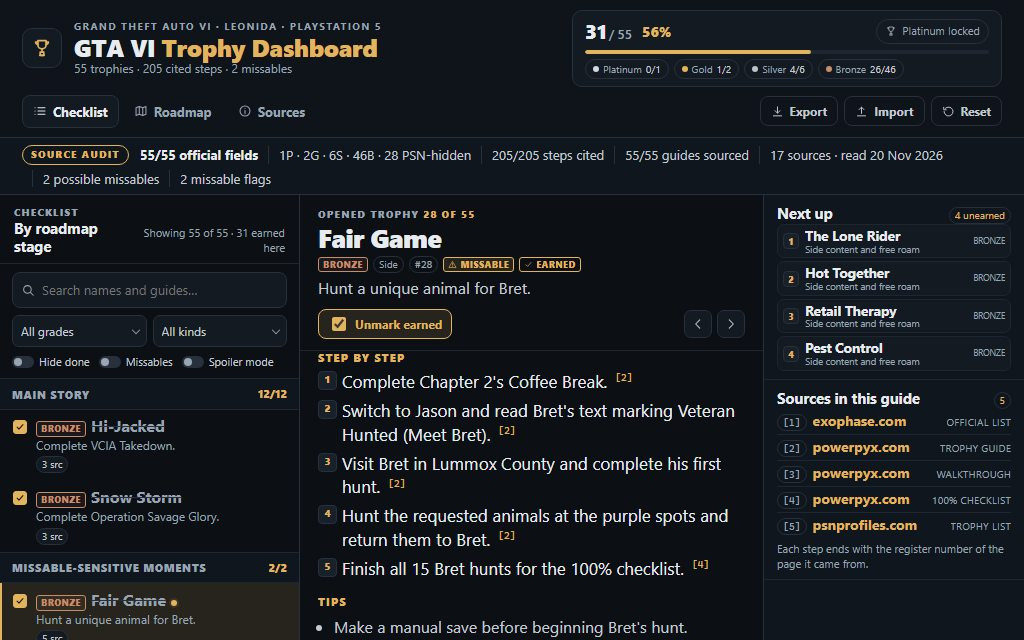
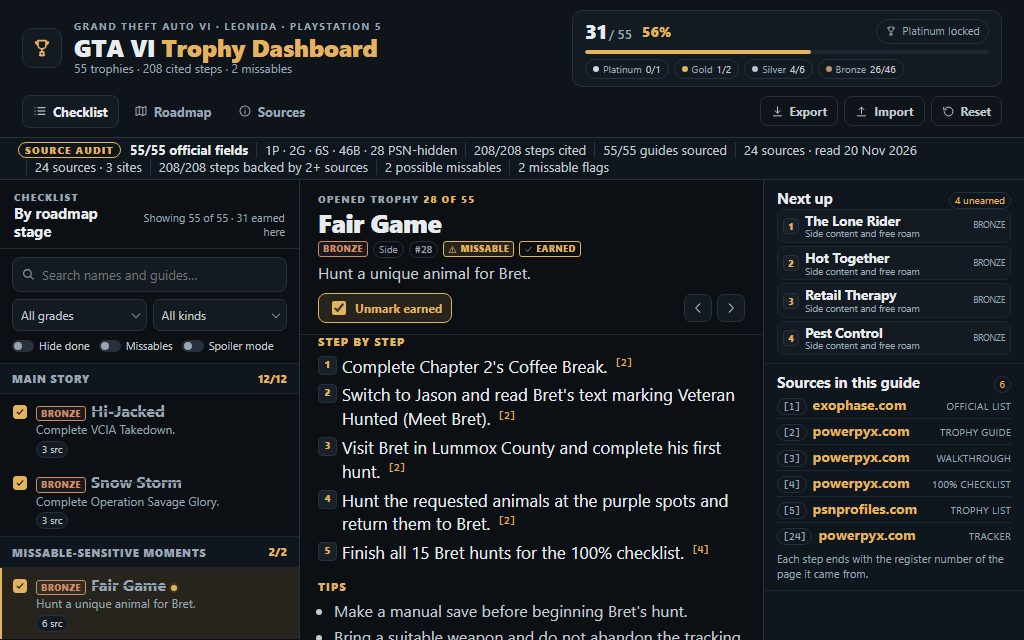
Depth: twenty-four sources from three sites including five mission walkthroughs, a sources register view in the sheet

diff --git a/app/app.js b/app/app.js
@@ -709,26 +709,54 @@ function renderSourceRegister() {
   if (!list) return;
   list.replaceChildren();
   const total = TROPHY_REGISTER.trophies.length;
+  const steps = TROPHY_REGISTER.trophies.reduce((sum, trophy) => sum + (trophy.steps || []).length, 0);
+  const guidesSourced = TROPHY_REGISTER.trophies.filter((trophy) => Array.isArray(trophy.sources) && trophy.sources.length > 0).length;
+  const multiSourceSteps = TROPHY_REGISTER.trophies.reduce((sum, trophy) => {
+    const sources = Array.isArray(trophy.sources) ? trophy.sources : [];
+    return new Set(sources.map(Number)).size >= 2 ? sum + (trophy.steps || []).length : sum;
+  }, 0);
+  const groups = new Map();
   for (const source of SOURCE_REGISTER.sources) {
-    const cited = TROPHY_REGISTER.trophies.filter((trophy) => Array.isArray(trophy.sources) && trophy.sources.map(Number).includes(Number(source.id))).length;
-    const row = createNode('li', 'source-row');
-    const top = createNode('div', 'source-row-top');
-    top.append(createNode('span', 'chip chip--id', '[' + source.id + ']'), createNode('strong', '', source.title));
-    const link = createNode('a', '', source.url);
-    link.href = source.url;
-    link.target = '_blank';
-    link.rel = 'noopener noreferrer';
-    const meta = createNode('div', 'source-meta', source.kind + ' · read ' + formatSourceReadDate(source.read) + ' · cited by ' + cited + '/' + total + ' guides');
-    row.append(top, link, meta);
-    list.append(row);
+    const site = sourceDomainLabel(source.url);
+    if (!groups.has(site)) groups.set(site, []);
+    groups.get(site).push(source);
+  }
+  const ordered = [...groups.entries()].sort((left, right) => right[1].length - left[1].length || left[0].localeCompare(right[0]));
+  for (const [site, entries] of ordered) {
+    entries.sort((left, right) => Number(left.id) - Number(right.id));
+    const group = createNode('li', 'source-site-group');
+    const head = createNode('div', 'source-site-head');
+    const title = createNode('div', 'source-site-title');
+    title.append(createSpriteIcon('i-info'), createNode('h3', 'source-site-domain', site));
+    const dates = [...new Set(entries.map((entry) => formatSourceReadDate(entry.read)))].join(', ');
+    head.append(title, createNode('span', 'source-site-count', entries.length + ' page' + (entries.length === 1 ? '' : 's') + ' · read ' + dates));
+    const rows = createNode('ul', 'source-list source-site-list' + (entries.length === 1 ? ' source-site-list--single' : ''));
+    for (const source of entries) {
+      const cited = TROPHY_REGISTER.trophies.filter((trophy) => Array.isArray(trophy.sources) && trophy.sources.map(Number).includes(Number(source.id))).length;
+      const row = createNode('li', 'source-row source-row--dense');
+      const top = createNode('div', 'source-row-top');
+      top.append(createNode('strong', '', source.title));
+      const link = createNode('a', '', site);
+      link.href = source.url;
+      link.target = '_blank';
+      link.rel = 'noopener noreferrer';
+      link.title = source.url;
+      const meta = createNode('div', 'source-meta');
+      meta.append(createNode('span', 'chip chip--id', '[' + source.id + ']'), document.createTextNode(' '), link, document.createTextNode(' · ' + source.kind + ' · read ' + formatSourceReadDate(source.read) + ' · cited by ' + cited + '/' + total));
+      row.append(top, meta);
+      rows.append(row);
+    }
+    group.append(head, rows);
+    list.append(group);
   }
   const summary = DOM_BY_ID['sources-summary'];
   if (summary) {
     summary.replaceChildren(
       renderSummaryPill(SOURCE_REGISTER.sources.length, 'sources'),
-      renderSummaryPill(total, 'trophies'),
-      renderSummaryPill(TROPHY_REGISTER.trophies.reduce((sum, trophy) => sum + (trophy.steps || []).length, 0), 'steps'),
-      renderSummaryPill(TROPHY_REGISTER.trophies.filter((trophy) => Array.isArray(trophy.sources) && trophy.sources.length > 0).length, 'guides with sources')
+      renderSummaryPill(groups.size, 'sites'),
+      renderSummaryPill(multiSourceSteps + '/' + steps, 'steps backed 2+'),
+      renderSummaryPill(guidesSourced + '/' + total, 'guides sourced'),
+      renderSummaryPill(TROPHY_REGISTER.roadmap && Array.isArray(TROPHY_REGISTER.roadmap.missables) ? TROPHY_REGISTER.roadmap.missables.length : 0, 'possible missables')
     );
   }
 }
@@ -739,6 +767,8 @@ const AUDIT_FACTS = [
   { id: 'audit-cited-step-coverage', legacyId: 'audit-steps', title: 'Steps whose src names an id in the source register.' },
   { id: 'audit-sourced-guide-coverage', legacyId: 'audit-guides', title: 'Trophies with a non-empty guide and at least one valid cited source.' },
   { id: 'audit-source-register-read-dates', legacyId: 'audit-sources', title: 'Rows in the source register and the date it was read.' },
+  { id: 'audit-source-register-size-and-sites', legacyId: 'audit-sites', title: 'Rows in the source register and the distinct sites they come from.' },
+  { id: 'audit-multisource-step-coverage', legacyId: 'audit-backed-steps', title: 'Cited steps whose guide is backed by two or more register sources.' },
   { id: 'audit-roadmap-missable-coverage', legacyId: 'audit-missables', title: 'Trophies in the roadmap missable list.' },
   { id: 'audit-trophy-missable-flags', legacyId: 'audit-flags', title: 'Trophies flagged missable in the trophy list.' },
 ];
@@ -760,6 +790,11 @@ function paintAuditRibbon() {
     const sources = Array.isArray(trophy.sources) ? trophy.sources : [];
     return sources.length > 0 && sources.every((id) => SOURCE_REGISTER.ids.has(Number(id))) && typeof trophy.guide === 'string' && trophy.guide.trim() !== '';
   }).length;
+  const sites = new Set(SOURCE_REGISTER.sources.map((source) => sourceDomainLabel(source.url))).size;
+  const multiSourceSteps = TROPHY_REGISTER.trophies.reduce((sum, trophy) => {
+    const sources = Array.isArray(trophy.sources) ? trophy.sources : [];
+    return new Set(sources.map(Number)).size >= 2 ? sum + (trophy.steps || []).length : sum;
+  }, 0);
   const possibleMissables = TROPHY_REGISTER.roadmap && Array.isArray(TROPHY_REGISTER.roadmap.missables) ? TROPHY_REGISTER.roadmap.missables.length : 0;
   const missableFlags = TROPHY_REGISTER.trophies.filter((trophy) => trophy.missable === true).length;
   const values = {
@@ -768,6 +803,8 @@ function paintAuditRibbon() {
     'audit-cited-step-coverage': cited + '/' + steps + ' steps cited',
     'audit-sourced-guide-coverage': guidesCited + '/' + total + ' guides sourced',
     'audit-source-register-read-dates': SOURCE_REGISTER.sources.length + ' sources · read ' + formatSourceReadDate(SOURCE_REGISTER.readDate),
+    'audit-source-register-size-and-sites': SOURCE_REGISTER.sources.length + ' sources · ' + sites + ' sites',
+    'audit-multisource-step-coverage': multiSourceSteps + '/' + steps + ' steps backed by 2+ sources',
     'audit-roadmap-missable-coverage': possibleMissables + ' possible missables',
     'audit-trophy-missable-flags': missableFlags + ' missable flags',
   };

diff --git a/app/style.css b/app/style.css
@@ -205,11 +205,11 @@ h1 .grad { color: var(--accent); }
 .audit-ribbon {
   flex: none;
   display: flex; align-items: center; flex-wrap: wrap;
-  gap: 5px 0;
-  padding: 7px 22px;
+  gap: 1px 0;
+  padding: 4px 18px;
   background: var(--surface-2);
   border-bottom: 1px solid var(--line);
-  font-size: 13px; line-height: 1.35;
+  font-size: 13px; line-height: 1.2;
   color: var(--text-2);
   font-variant-numeric: tabular-nums;
 }
@@ -217,15 +217,15 @@ h1 .grad { color: var(--accent); }
   content: "Source audit";
   font-size: 10px; letter-spacing: .12em; text-transform: uppercase;
   color: var(--accent); font-weight: 800;
-  padding: 2px 8px;
+  padding: 1px 6px;
   border: 1px solid var(--accent);
   border-radius: 999px;
-  margin-right: 11px;
+  margin-right: 9px;
   white-space: nowrap;
 }
 .audit-fact { white-space: nowrap; color: var(--text-2); }
 .audit-fact--lead { color: var(--text); font-weight: 700; }
-.audit-fact + .audit-fact { border-left: 1px solid var(--line); margin-left: 10px; padding-left: 10px; }main { flex: 1; min-height: 0; display: flex; flex-direction: column; }
+.audit-fact + .audit-fact { border-left: 1px solid var(--line); margin-left: 8px; padding-left: 8px; }main { flex: 1; min-height: 0; display: flex; flex-direction: column; }
 .view {
   flex: 1; min-height: 0;
   display: flex; flex-direction: column;
@@ -704,7 +704,7 @@ select {
 .roadmap-head, .sources-head {
   display: flex; align-items: flex-end; justify-content: space-between;
   gap: 16px; flex-wrap: wrap;
-  margin-bottom: 12px;
+  margin-bottom: 7px;
 }
 .roadmap-title { margin: 0; font-size: 22px; line-height: 1.2; font-weight: 800; }
 .roadmap-sub { margin: 3px 0 0; font-size: 14px; line-height: 1.45; color: var(--muted); max-width: 78ch; }
@@ -785,11 +785,44 @@ select {
 .notes-list { margin: 0; padding-left: 16px; font-size: 12px; color: var(--muted); }
 .notes-list li + li { margin-top: 2px; }
 .roadmap-foot { margin: 10px 0 0; font-size: 11px; color: var(--muted); }
-#sources-read-with-dates { max-width: 900px; }
-#sources-read-with-dates .source-row { padding: 9px 0; }
-#sources-read-with-dates .source-row strong { font-size: 14px; }
-#sources-read-with-dates .source-row a { font-size: 11px; }
-#sources-read-with-dates .source-meta { font-size: 11px; }
+#sources-read-with-dates { max-width: none; display: grid; gap: 4px; }
+.source-site-group {
+  border: 1px solid var(--line);
+  background: var(--surface-2);
+  border-radius: var(--radius);
+  padding: 4px 8px 2px;
+  min-width: 0;
+}
+.source-site-head {
+  display: flex; align-items: baseline; justify-content: space-between;
+  gap: 8px;
+  border-bottom: 1px solid var(--line-soft);
+  padding-bottom: 2px;
+  margin-bottom: 0;
+}
+.source-site-title { display: flex; align-items: center; gap: 5px; min-width: 0; }
+.source-site-title .icon { width: 10px; height: 10px; color: var(--accent); flex: none; }
+.source-site-domain { margin: 0; font-size: 11.5px; line-height: 1.15; font-weight: 800; color: var(--accent); }
+.source-site-count { font-size: 9px; line-height: 1.15; color: var(--muted); white-space: nowrap; }
+.source-site-list {
+  display: grid;
+  grid-template-columns: repeat(3, minmax(0, 1fr));
+  gap: 0 12px;
+}
+.source-site-list--single { grid-template-columns: minmax(0, 1fr); }
+.source-row--dense { padding: 1px 0; border-bottom: 1px solid var(--line-soft); }
+.source-row--dense .source-row-top { gap: 3px; }
+.source-row--dense .source-row-top strong {
+  font-size: 9.5px; line-height: 1.18; font-weight: 650;
+  white-space: nowrap; overflow: hidden; text-overflow: ellipsis;
+}
+.source-row--dense .source-meta { font-size: 8.5px; line-height: 1.15; white-space: nowrap; overflow: hidden; text-overflow: ellipsis; }
+.source-row--dense .source-meta a { font-size: 8.5px; color: var(--accent); }
+.source-row--dense .source-meta .chip--id { font-size: 8px; line-height: 1.15; padding: 0 2px; margin-right: 1px; }
+.sources-head .roadmap-sub { font-size: 12.5px; max-width: none; }
+.sources-head .roadmap-title { font-size: 20px; }
+.sources-head + * { margin-top: 0; }
+#panel-sources .panel-scroll { padding-top: 10px; }
 
 .site-footer {
   display: none;

diff --git a/main.ts b/main.ts
@@ -23,6 +23,14 @@ function log(message) {
   process.stdout.write(`[preflight] ${message}\n`);
 }
 
+function sourceSite(url) {
+  try {
+    return new URL(url).hostname.replace(/^www\./, '');
+  } catch {
+    return String(url);
+  }
+}
+
 function fail(message) {
   writeSync(2, `[preflight] FAIL: ${message}\n`);
   process.exit(1);
@@ -103,8 +111,9 @@ function loadSources() {
     }
   });
   if (broken.length > 0) fail(`source register is invalid: ${describeNames(broken)}`);
-  log(`sources: ${list.length} entries in the register (ids ${[...ids].sort((a, b) => a - b).join(', ')})`);
-  return { ids, list };
+  const sites = new Set(list.map((source) => sourceSite(source.url)));
+  log(`sources: ${list.length} entries from ${sites.size} sites in the register (ids ${[...ids].sort((a, b) => a - b).join(', ')})`);
+  return { ids, list, sites };
 }
 
 function checkCitations(trophies, register) {
@@ -113,6 +122,7 @@ function checkCitations(trophies, register) {
   let cited = 0;
   let withSources = 0;
   let twoPlus = 0;
+  let multiSourceSteps = 0;
   for (const trophy of trophies) {
     const label = typeof trophy?.name === 'string' ? trophy.name.trim() : 'untitled trophy';
     const list = Array.isArray(trophy?.steps) ? trophy.steps : [];
@@ -130,13 +140,16 @@ function checkCitations(trophies, register) {
       withSources += 1;
       const unknown = sources.filter((id) => !register.ids.has(Number(id)));
       if (unknown.length > 0) problems.push(`${label}: unregistered source ids ${unknown.join(', ')}`);
-      if (new Set(sources.map(Number)).size >= 2) twoPlus += 1;
+      if (new Set(sources.map(Number)).size >= 2) {
+        twoPlus += 1;
+        multiSourceSteps += list.length;
+      }
     }
   }
   if (twoPlus < 50) problems.push(`only ${twoPlus}/${trophies.length} trophies cite two or more sources (need at least 50)`);
   if (problems.length > 0) fail(`citation audit failed: ${describeNames(problems, 10)}`);
-  log(`citations: ${trophies.length}/${trophies.length} trophies have steps; ${cited}/${steps} steps cite a registered source; ${withSources}/${trophies.length} trophies cite a registered source; ${twoPlus}/${trophies.length} cite two or more`);
-  return { steps, cited, withSources, twoPlus };
+  log(`citations: ${trophies.length}/${trophies.length} trophies have steps; ${cited}/${steps} steps cite a registered source; ${multiSourceSteps}/${steps} steps sit in guides backed by two or more sources; ${withSources}/${trophies.length} trophies cite a registered source; ${twoPlus}/${trophies.length} cite two or more`);
+  return { steps, cited, withSources, twoPlus, multiSourceSteps };
 }
 
 const TARGET_STOPWORDS = new Set(['a', 'an', 'and', 'at', 'for', 'in', 'of', 'on', 'the', 'to', 'with']);
@@ -302,7 +315,7 @@ function main() {
   const dossier = buildDossier(out, { text_max_bytes: 163840, screenshots: { max: 4, max_bytes: 262144 }, app_max_files: 993, app_max_bytes: 50331648 });
   writeFileSync(join(out, 'dossier.json'), dossier);
   const dossierBytes = statSync(join(out, 'dossier.json')).size;
-  log(`wrote ${out}: ${trophies.length} trophies, ${citations.steps} steps (${citations.cited} cited), ${citations.twoPlus} trophies with 2+ sources, ${targets} trophies with a target, ${shots.length} screenshots, ${appFiles} app files, ${dossierBytes}-byte dossier.json`);
+  log(`wrote ${out}: ${trophies.length} trophies, ${register.list.length} sources from ${register.sites.size} sites, ${citations.steps} steps (${citations.cited} cited, ${citations.multiSourceSteps} backed by 2+ sources), ${citations.twoPlus} trophies with 2+ sources, ${targets} trophies with a target, ${shots.length} screenshots, ${appFiles} app files, ${dossierBytes}-byte dossier.json`);
 }
 
 main();

diff --git a/app/index.html b/app/index.html
@@ -95,6 +95,8 @@
       <span class="audit-fact" id="audit-cited-step-coverage" aria-label="citation check, every numbered step carries a source number"><span id="audit-steps"></span></span>
       <span class="audit-fact" id="audit-sourced-guide-coverage" aria-label="sourcing check, every guide cites a valid register source"><span id="audit-guides"></span></span>
       <span class="audit-fact" id="audit-source-register-read-dates" aria-label="source check, register rows and the date each was read"><span id="audit-sources"></span></span>
+      <span class="audit-fact" id="audit-source-register-size-and-sites" aria-label="register breadth check, source rows and the distinct sites they come from"><span id="audit-sites"></span></span>
+      <span class="audit-fact" id="audit-multisource-step-coverage" aria-label="backing check, cited steps in guides that cite two or more register sources"><span id="audit-backed-steps"></span></span>
       <span class="audit-fact" id="audit-roadmap-missable-coverage" aria-label="missable check, trophies in the roadmap missable list"><span id="audit-missables"></span></span>
       <span class="audit-fact" id="audit-trophy-missable-flags" aria-label="flag check, trophies marked missable in the trophy list"><span id="audit-flags"></span></span>
     </div>
@@ -266,7 +268,7 @@
         <div class="sources-head">
           <div>
             <h2 class="roadmap-title">Sources and citations</h2>
-            <p class="roadmap-sub">The pages this guide was built from, the date each one was read, and how many trophy guides cite it. Every count is computed from the register and trophy list at load time.</p>
+            <p class="sr-only">Every page this guide was built from, grouped by site with its read date and the guides it backs. All counts are computed from the register and trophy list at load time.</p>
           </div>
           <div class="roadmap-summary" id="sources-summary"></div>
         </div>
